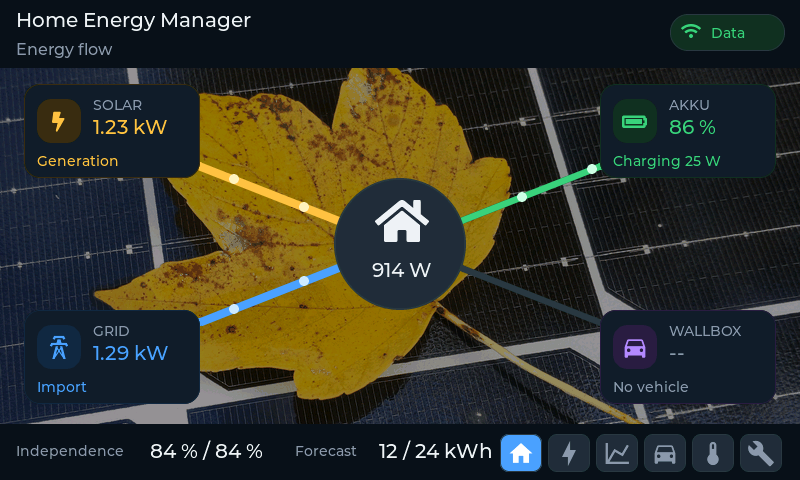
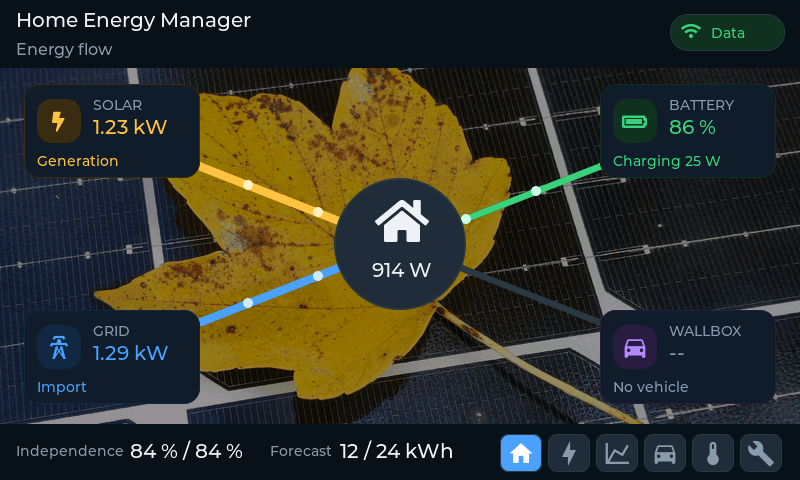
Slow the flow animation and label the battery in English
Run the particle timer at 5 fps instead of 10, which halves the animation speed
without changing the per-tick step. The battery node on the flow page used a
hardcoded "AKKU"; it now uses the translation table and reads "BATTERY" in the
English build. Regenerate the English flow screenshot.

diff --git a/src/ui/WarpUi.cpp b/src/ui/WarpUi.cpp
@@ -1895,7 +1895,7 @@ void create(lv_obj_t *parent) {
   w.gridValue = gridFlow.value;
   w.gridState = gridFlow.state;
 
-  FlowNode batFlow = flowNode(w.page4, 600, 16, "AKKU",
+  FlowNode batFlow = flowNode(w.page4, 600, 16, TR("AKKU", "BATTERY"),
                               LV_SYMBOL_BATTERY_FULL, C_BAT, C_BAT_DIM);
   w.batNode = batFlow.card;
   w.batValue = batFlow.value;
@@ -2071,7 +2071,7 @@ void create(lv_obj_t *parent) {
                       LV_EVENT_CLICKED, nullptr);
   showPage(1);
 
-  // Particle animation. 10 fps on purpose: small 12 px objects, no opacity
+  // Particle animation. 5 fps on purpose: small 12 px objects, no opacity
   // layers and no full-page invalidation. Speed scales with power, so a strong
   // flow visibly moves faster without ever exceeding the CPU budget.
   lv_timer_create([](lv_timer_t *) {
@@ -2121,7 +2121,7 @@ void create(lv_obj_t *parent) {
         lv_obj_set_pos(dot, x, y);
       }
     }
-  }, 100, nullptr);
+  }, 200, nullptr);
 }
 
 void setPage(int page) {

diff --git a/docs/ui.md b/docs/ui.md
@@ -66,7 +66,7 @@ The first page is a live energy-flow view:
   `Inselbetrieb`.
 - A missing meter shows `--` / `kein Messwert` instead of hiding the card.
 
-The animation is deliberately cheap: one LVGL timer at 12.5 fps, two small
+The animation is deliberately cheap: one LVGL timer at 5 fps, two small
 particles per active link, and invalidation only of the particle rectangles. The
 timer returns immediately while the flow page is hidden, and the line width is
 updated only when new data arrives.
